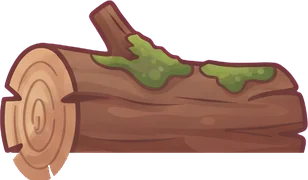
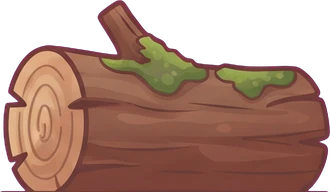
Versão 1.25: pinguim e caranguejo novos, enfeites sobre o relevo, tronco inteiro e botão de pausa
- pinguim ilustrado e caranguejo da arte nova, desenhados depois do relevo
- flores e tufos ilustrados em todas as fases, pousados nas ladeiras
- tronco recortado de novo sem cortar a ponta
- obstáculos mantêm o desenho novo quando o Infinito troca de fase
- porco-espinho anda sem quicar; ícone do pulo duplo no meio da caixa
- botão de pausa na partida

diff --git a/index.html b/index.html
@@ -387,6 +387,7 @@
     <div class="next" id="next"><canvas id="nextCv" width="88" height="68"></canvas><div class="bar"><i id="nextBar"></i></div></div>
   </div>
   <div class="btns">
+    <button class="rbtn" id="pauseBtn" aria-label="Pausar" style="display:none">⏸</button>
     <button class="rbtn" id="cfgBtn" aria-label="Configurações">⚙</button>
     <button class="rbtn" id="home" aria-label="Início" style="display:none">🏠</button>
     <button class="rbtn" id="openHelp" aria-label="Como jogar">📖</button>
@@ -503,7 +504,7 @@
     </div>
     <!--DEV-FIM-->
     <button class="big" id="cfgOk">Pronto</button>
-    <div class="ver" id="ver">versão 1.24</div>
+    <div class="ver" id="ver">versão 1.25</div>
     <div class="cred">Fonte Fredoka: Copyright 2016 The Fredoka Project Authors, licenciada sob a SIL Open Font License 1.1 (texto completo em fonts/OFL.txt).</div>
   </div>
 </div>
@@ -605,6 +606,7 @@ const I={
  engrenagem:`<path d="${gear}" fill="#8FA6BE"/><circle cx="12" cy="12" r="3" fill="#fff"/>`,
  casa:`<path d="M5.8 10.5v9.2h12.4v-9.2" fill="#8FC3EE"/><path d="M10 19.7v-5h4v5" fill="#F7B24A"/><path d="M3.3 11.6 12 4.2l8.7 7.4" fill="none" stroke-width="2.2"/><path d="M3.3 11.6 12 4.2l8.7 7.4" fill="none" stroke="#F26B5B" stroke-width=".9"/>`,
  play:`<path d="M8 5.2v13.6l10.8-6.8z" fill="#fff"/>`,
+ pausa:`<rect x="6.2" y="5" width="4.2" height="14" rx="1.6" fill="#8FA6BE"/><rect x="13.6" y="5" width="4.2" height="14" rx="1.6" fill="#8FA6BE"/>`,
  chegada:`<path d="M5.5 21V3.5" fill="none" stroke-width="2"/><path d="M5.5 4h13v9h-13z" fill="#fff"/><path d="M5.5 4h4.3v3H5.5zM14.1 4h4.4v3h-4.4zM9.8 7h4.3v3H9.8zM5.5 10h4.3v3H5.5zM14.1 10h4.4v3h-4.4z" fill="#333" stroke="none"/>`,
  bandeira:`<path d="M6 21V3.5" fill="none" stroke-width="2"/><path d="M6 4.2c4-2 7 2 12 0v8.3c-5 2-8-2-12 0z" fill="#F0445A"/>`,
  infinito:`<path d="M12 12c-2-2.6-3.6-4-5.5-4a4 4 0 0 0 0 8c1.9 0 3.5-1.4 5.5-4s3.6-4 5.5-4a4 4 0 0 1 0 8c-1.9 0-3.5-1.4-5.5-4z" fill="none" stroke-width="4.2"/><path d="M12 12c-2-2.6-3.6-4-5.5-4a4 4 0 0 0 0 8c1.9 0 3.5-1.4 5.5-4s3.6-4 5.5-4a4 4 0 0 1 0 8c-1.9 0-3.5-1.4-5.5-4z" fill="none" stroke="#fff" stroke-width="2"/>`,
@@ -662,7 +664,7 @@ const I={
  voz:`<circle cx="9" cy="8.5" r="4.2" fill="#F6C28B"/><path d="M2.8 20c.4-3.8 2.8-6 6.2-6s5.8 2.2 6.2 6z" fill="#6FC3F0"/><path d="M16.5 6.5a4 4 0 0 1 0 5.5M19 4.3a7.2 7.2 0 0 1 0 9.9" fill="none" stroke-width="1.7"/>`,
  brilho:`<path d="M10 3.5l1.6 4.7 4.7 1.6-4.7 1.6L10 16.1l-1.6-4.7-4.7-1.6 4.7-1.6zM17.5 13l.9 2.6 2.6.9-2.6.9-.9 2.6-.9-2.6-2.6-.9 2.6-.9z" fill="#FFD23F"/>`
 };
-const MAP={'🍓':'morango','⭐':'estrela','🌟':'estrela','❤':'coracao','💗':'coracao','💖':'coracao','💔':'partido','⚙':'engrenagem','🏠':'casa','▶':'play','🏁':'chegada','🚩':'bandeira','♾':'infinito',
+const MAP={'⏸':'pausa','🍓':'morango','⭐':'estrela','🌟':'estrela','❤':'coracao','💗':'coracao','💖':'coracao','💔':'partido','⚙':'engrenagem','🏠':'casa','▶':'play','🏁':'chegada','🚩':'bandeira','♾':'infinito',
  '🐾':'pata','⚡':'raio','📖':'livro','🙂':'feliz','💪':'forte','🔥':'fogo','🔒':'cadeado','🔓':'aberto','🏆':'trofeu','🎁':'presente','🧲':'ima','🛡':'escudo','🎉':'festa',
  '🏅':'medalha','🥇':'medalha','👑':'coroa','🎀':'laco','👤':'pessoa','🔊':'som','🎵':'musica','📲':'celular','📱':'celular','⤵':'rolar','🌳':'arvore','🏖':'praia','❄':'neve',
  '🦒':'savana','🔮':'mistica','🍭':'doces','🔁':'repetir','⏰':'relogio','🎒':'mochila','➕':'mais','✨':'brilho','💫':'brilho','📒':'album','🎈':'balao','🏡':'casa','🗣':'voz','⏫':'cima','⏬':'baixo','⬆':'seta','👆':'dedo','👉':'dedo_lado','🗑':'lixo','🛠':'ferramenta','🥈':'prata','🥉':'bronze','🐦':'passaro','💨':'vento','📏':'regua','🍀':'trevo','🌧':'nuvem_chuva','⚠':'aviso','🚪':'porta','💻':'computador','🚧':'obra'};
@@ -1897,62 +1899,63 @@ function drawGround(){
   sp=30;i0=Math.floor(cam/sp)-1;i1=Math.ceil((cam+VW)/sp)+1;
   ctx.beginPath(); for(let i=i0;i<=i1;i++){const x=i*sp-cam; ctx.moveTo(x+31,GY+15); ctx.arc(x+15,GY+15,16,0,PI);} ctx.fill();
   ctx.fillStyle=C(TH.grassL); ctx.fillRect(0,GY-6,VW,6);
-  if(st==='selva'||st==='savana'||st==='mistica'){
+  if((st==='selva'&&!useFL())||st==='savana'||st==='mistica'){ // na Floresta ilustrada os tufos desenhados substituem estes
     sp=43;i0=Math.floor(cam/sp)-1;i1=Math.ceil((cam+VW)/sp)+1;
     ctx.fillStyle=C(TH.tuft); ctx.beginPath();
     for(let i=i0;i<=i1;i++){const x=i*sp+rnd(i,91)*24-cam,h=8+rnd(i,92)*10;
       ctx.moveTo(x-7,GY-5);ctx.lineTo(x-4,GY-5-h*.8);ctx.lineTo(x-1,GY-5);ctx.lineTo(x+1,GY-5-h);ctx.lineTo(x+4,GY-5);ctx.lineTo(x+7,GY-5-h*.7);ctx.lineTo(x+9,GY-5);}
     ctx.fill();
   }
-  if(st!=='selva'&&artPronto(st)&&ART[st].chao.length){const ks=ART[st].chao;
-    sp=140;i0=Math.floor(cam/sp)-1;i1=Math.ceil((cam+VW)/sp)+1;
-    for(let i=i0;i<=i1;i++){if(rnd(i,101)<.45)continue;const k=ks[Math.floor(rnd(i,102)*ks.length)],x=i*sp+rnd(i,103)*60-cam;
-      flDraw(st+'/'+k,x,GY+3,(k==='tufo_seco'?18:k==='baldinho'?22:15)+rnd(i,104)*5,rnd(i,105)>.5);}}
-  if(st==='selva'&&useFL()){ // tufos e florzinhas ilustrados
-    const ks=['tufo_1','tufo_2','tufo_3','tufo_4','tufo_5','tufo_6','flor_amarela','flor_rosa','flor_branca','flor_lilas'];
-    sp=88;i0=Math.floor(cam/sp)-1;i1=Math.ceil((cam+VW)/sp)+1;
-    for(let i=i0;i<=i1;i++){if(rnd(i,101)<.3)continue;const k=ks[Math.floor(rnd(i,102)*ks.length)],x=i*sp+rnd(i,103)*50-cam;
-      flDraw(k,x,GY+2,k[0]==='f'?22+rnd(i,104)*6:15+rnd(i,104)*8,rnd(i,105)>.5);}
-  }
   if(st==='doces'){ // granulado
     sp=22;i0=Math.floor(cam/sp)-1;i1=Math.ceil((cam+VW)/sp)+1;
     for(let i=i0;i<=i1;i++){const x=i*sp+rnd(i,95)*14-cam;ctx.save();ctx.translate(x,GY+2+rnd(i,96)*14);ctx.rotate(rnd(i,97)*PI);
       ctx.fillStyle=C(CANDY[Math.floor(rnd(i,98)*5)]);ctx.fillRect(-4,-1.5,8,3);ctx.restore();}
   }
-  sp=118;i0=Math.floor(cam/sp)-1;i1=Math.ceil((cam+VW)/sp)+1;
-  const FC=[[255,255,255],[255,170,205],[255,226,90],[190,160,255]];
-  for(let i=i0;i<=i1;i++){ if(rnd(i,101)<.35||st==='neve') continue;
-    const x=i*sp+rnd(i,102)*70-cam,h=12+rnd(i,103)*8,c=FC[Math.floor(rnd(i,104)*4)],y=GY-5-h;
-    if(st==='praia'){ // estrela-do-mar ou concha
-      if(rnd(i,105)>.5){ctx.fillStyle=tc(255,140,90);ctx.save();ctx.translate(x,GY+6);ctx.rotate(i);ctx.beginPath();
-        for(let k=0;k<10;k++){const a=k*PI/5,r=k%2?4:10;ctx.lineTo(Math.cos(a)*r,Math.sin(a)*r);}ctx.fill();ctx.restore();}
-      else{ctx.fillStyle=tc(255,200,215);ctx.beginPath();ctx.arc(x,GY+8,8,PI,TAU);ctx.fill();ctx.strokeStyle=tc(235,150,175);ctx.lineWidth=1.5;
-        ctx.beginPath();for(let k=-2;k<=2;k++){ctx.moveTo(x,GY+8);ctx.lineTo(x+k*3.4,GY+1+Math.abs(k));}ctx.stroke();}
-      continue;}
-    ctx.strokeStyle=st==='doces'?tc(255,255,255):tc(60,150,70);ctx.lineWidth=2.5;ctx.beginPath();ctx.moveTo(x,GY-4);ctx.lineTo(x,y);ctx.stroke();
-    ctx.fillStyle=C(c);ctx.beginPath();for(let k=0;k<5;k++){const a=k*TAU/5+i;ctx.moveTo(x+Math.cos(a)*4+4,y+Math.sin(a)*4);ctx.arc(x+Math.cos(a)*4,y+Math.sin(a)*4,4,0,TAU);}ctx.fill();
-    ctx.fillStyle=tc(255,190,40);ctx.beginPath();ctx.arc(x,y,2.8,0,TAU);ctx.fill();}
 }
-function drawBeachFriends(){
+// enfeites do chão (florzinhas, tufos, conchas): depois do relevo, pousados nele, para não ficarem cortados nas ladeiras
+const FLORES={selva:['flor_amarela','flor_rosa','flor_branca','flor_lilas'],savana:['flor_amarela','flor_branca','flor_amarela'],mistica:['flor_lilas','flor_rosa','flor_lilas'],doces:['flor_rosa','flor_lilas','flor_amarela']};
+function drawGroundDecor(){
+  const st=TH.style; let sp,i0,i1;
+  const g=sx=>gAt(sx+cam);
+  if(st!=='selva'&&artPronto(st)&&ART[st].chao.length){const ks=ART[st].chao;
+    sp=140;i0=Math.floor(cam/sp)-1;i1=Math.ceil((cam+VW)/sp)+1;
+    for(let i=i0;i<=i1;i++){if(rnd(i,101)<.45)continue;const k=ks[Math.floor(rnd(i,102)*ks.length)],x=i*sp+rnd(i,103)*60-cam;
+      flDraw(st+'/'+k,x,GY+3-g(x),(k==='tufo_seco'?18:k==='baldinho'?22:15)+rnd(i,104)*5,rnd(i,105)>.5);}}
+  if(st==='selva'&&useFL()){ // tufos e florzinhas ilustrados, em moitinhas (tufo + flores juntos)
+    const ks=['tufo_1','tufo_2','tufo_3','tufo_4','tufo_5','tufo_6'],fs=FLORES.selva;
+    sp=64;i0=Math.floor(cam/sp)-1;i1=Math.ceil((cam+VW)/sp)+1;
+    for(let i=i0;i<=i1;i++){if(rnd(i,101)<.22)continue;const x=i*sp+rnd(i,103)*36-cam,q=rnd(i,106);
+      if(q<.45){flDraw(ks[Math.floor(rnd(i,102)*ks.length)],x,GY+2-g(x),15+rnd(i,104)*9,rnd(i,105)>.5);}
+      else if(q<.75){flDraw(ks[Math.floor(rnd(i,102)*ks.length)],x,GY+2-g(x),14+rnd(i,104)*6,rnd(i,105)>.5);
+        const f=fs[Math.floor(rnd(i,107)*fs.length)],x2=x+8+rnd(i,108)*6;flDraw(f,x2,GY+3-g(x2),20+rnd(i,109)*6,rnd(i,110)>.5);}
+      else{for(let k=0;k<2+(q>.9);k++){const f=fs[Math.floor(rnd(i,111+k)*fs.length)],x2=x+k*11-6;flDraw(f,x2,GY+3-g(x2),18+rnd(i,114+k)*8,rnd(i,117+k)>.5);}}}
+    return;}
+  if(st==='neve'||st==='selva') return;
+  if(st==='praia'){if(artPronto('praia'))return; // a praia ilustrada já tem conchas e estrelas-do-mar
+    sp=118;i0=Math.floor(cam/sp)-1;i1=Math.ceil((cam+VW)/sp)+1;
+    for(let i=i0;i<=i1;i++){if(rnd(i,101)<.35)continue;const x=i*sp+rnd(i,102)*70-cam,y=GY-g(x);
+      ctx.fillStyle=tc(255,140,90);ctx.save();ctx.translate(x,y+6);ctx.rotate(i);ctx.beginPath();
+      for(let k=0;k<10;k++){const a=k*PI/5,r=k%2?4:10;ctx.lineTo(Math.cos(a)*r,Math.sin(a)*r);}ctx.fill();ctx.restore();}
+    return;}
+  // florzinhas ilustradas nas outras fases (com a cor da fase)
+  if(!FL.ok) return;
+  const fs=FLORES[st]||FLORES.selva;
+  sp=st==='savana'?150:118;i0=Math.floor(cam/sp)-1;i1=Math.ceil((cam+VW)/sp)+1;
+  for(let i=i0;i<=i1;i++){if(rnd(i,101)<(st==='savana'?.5:.35))continue;const x=i*sp+rnd(i,102)*70-cam;
+    const n=1+(rnd(i,103)>.6);for(let k=0;k<n;k++){const x2=x+k*12,f=fs[Math.floor(rnd(i,104+k)*fs.length)];flDraw(f,x2,GY+3-g(x2),18+rnd(i,106+k)*7,rnd(i,108+k)>.5,st==='mistica'?.15:0);}}
+}
+function drawBeachFriends(){ // caranguejos na praia e pinguins na neve, passeando na faixa da frente (desenhados depois do relevo)
   const st=TH.style; if(st!=='praia'&&st!=='neve') return;
+  const im=st==='praia'?FL.im['praia/caranguejo']:VIVO.im.pinguim; if(!im||!im.complete||!im.width) return;
   const sp=560,i0=Math.floor(cam/sp)-1,i1=Math.ceil((cam+VW)/sp)+1;
   for(let i=i0;i<=i1;i++){ if(rnd(i,251)<.35) continue;
-    const x=i*sp+rnd(i,252)*260-cam+Math.sin(T*1.3+i)*22, y=GY+20+rnd(i,253)*14;
-    if(st==='praia'){ctx.save();ctx.translate(x,y);const w2=Math.sin(T*8+i)*2;
-      ctx.strokeStyle='#D9363E';ctx.lineWidth=2;ctx.lineCap='round';ctx.beginPath();
-      for(const sgn of [-1,1]) for(let k=0;k<3;k++){ctx.moveTo(sgn*8,2+k*2);ctx.lineTo(sgn*15,6+k*3+(k%2?w2:-w2));}ctx.stroke();
-      ctx.fillStyle='#F2484F';ctx.beginPath();ctx.ellipse(0,0,12,8,0,0,TAU);ctx.fill();
-      ctx.beginPath();ctx.arc(-15,-8+w2,5,0,TAU);ctx.arc(15,-8-w2,5,0,TAU);ctx.fill();
-      ctx.strokeStyle='#F2484F';ctx.lineWidth=2.5;ctx.beginPath();ctx.moveTo(-4,-6);ctx.lineTo(-5,-13);ctx.moveTo(4,-6);ctx.lineTo(5,-13);ctx.stroke();
-      ctx.fillStyle='#fff';ctx.beginPath();ctx.arc(-5,-14,3,0,TAU);ctx.arc(5,-14,3,0,TAU);ctx.fill();
-      ctx.fillStyle='#222';ctx.beginPath();ctx.arc(-4.5,-14,1.4,0,TAU);ctx.arc(5.5,-14,1.4,0,TAU);ctx.fill();
-      ctx.strokeStyle='#8E1C22';ctx.lineWidth=1.4;ctx.beginPath();ctx.arc(0,0,3,.3,PI-.3);ctx.stroke();ctx.restore();}
-    else{ctx.save();ctx.translate(x,y-6);ctx.rotate(Math.sin(T*6+i)*.12);
-      ctx.fillStyle='#2E3445';ctx.beginPath();ctx.ellipse(0,0,10,15,0,0,TAU);ctx.fill();ctx.beginPath();ctx.arc(0,-15,8,0,TAU);ctx.fill();
-      ctx.fillStyle='#fff';ctx.beginPath();ctx.ellipse(1,2,6.5,11,0,0,TAU);ctx.fill();ctx.beginPath();ctx.ellipse(2,-14,5,5.5,0,0,TAU);ctx.fill();
-      ctx.fillStyle='#222';ctx.beginPath();ctx.arc(3.5,-16,1.4,0,TAU);ctx.fill();
-      ctx.fillStyle='#FFA726';ctx.beginPath();ctx.moveTo(6,-14);ctx.lineTo(11,-12.5);ctx.lineTo(6,-11.5);ctx.fill();ctx.beginPath();ctx.ellipse(-4,15,4,2,0,0,TAU);ctx.ellipse(5,15,4,2,0,0,TAU);ctx.fill();
-      ctx.restore();}
+    const x=i*sp+rnd(i,252)*260-cam+Math.sin(T*1.3+i)*22, y=GY+24+rnd(i,253)*12, vai=Math.cos(T*1.3+i); // vai>0: andando para a direita
+    if(x<-60||x>VW+60) continue;
+    ctx.fillStyle='rgba(0,0,0,.13)';ctx.beginPath();ctx.ellipse(x,y+1,st==='praia'?15:12,3.5,0,0,TAU);ctx.fill();
+    ctx.save();ctx.translate(x,y);
+    if(st==='praia'){const h=24,w=h*im.width/im.height,p=T*14+i;ctx.rotate(Math.sin(p)*.06);ctx.drawImage(im,-w/2,-h-Math.abs(Math.sin(p))*1.5,w,h);} // anda de lado, balançando
+    else{const h=36,w=h*im.width/im.height,p=T*7+i;ctx.rotate(Math.sin(p)*.13);ctx.scale(vai>=0?1:-1,1);ctx.drawImage(im,-w/2,-h-Math.abs(Math.sin(p))*1.2,w,h);} // gingado de pinguim
+    ctx.restore();
   }
 }
 function drawRollBall(c,x,y,sc,sk,ang){
@@ -2064,7 +2067,7 @@ function drawObstacle(o){
   if(MOVEIS.includes(o.k)){if(vivoOk())drawMovel(o,x,y);return;}
   ctx.fillStyle='rgba(0,0,0,.16)';ctx.beginPath();ctx.ellipse(x,y+3,w*.62,7,0,0,TAU);ctx.fill();
   {const ak=artObs(o.k);if(ak){flDraw(ak,x,y+4,h*(OBS_ESC[o.k]||1.15));
-    if(o.k==='torre'){ctx.drawImage(icoImg('cima'),x-13,y-h*.55-13,26,26);}
+    if(o.k==='torre'){const H=h*(OBS_ESC.torre||1.15);ctx.drawImage(icoImg('cima'),x-H*.0236-13,y+4-H*.397-13,26,26);} // no meio da frente da 2ª caixa (a arte tem a lateral à direita)
     return;}}
   if(o.k==='tronco'){
     ctx.fillStyle='#8B5A2B'; rr(ctx,x-w/2,y-h,w,h,h/2); ctx.fill();
@@ -2362,7 +2365,7 @@ function leoQuadro(p){if(p.still)return 0;if(p.stumble>0)return 12;if(p.air)retu
 
 /* ---------- peças ilustradas da Floresta (arte nova) ---------- */
 const FL={ok:false,im:{},tint:new Map(),last:new Map(),bud:3,nomes:['arvore_redonda', 'arvore_pinheiro', 'arvore_cipos', 'arbusto_pequeno', 'arbusto_flores', 'arbusto_frutinhas', 'arbusto_grande', 'planta_costela', 'planta_pequena', 'planta_rosa', 'tufo_1', 'tufo_2', 'tufo_3', 'tufo_4', 'tufo_5', 'tufo_6', 'flor_amarela', 'flor_rosa', 'flor_branca', 'flor_lilas', 'taboa_1', 'taboa_2', 'galho_pendurado','galho_tronco','cipo','macaco_1','macaco_2','folhas_frente_1', 'folhas_frente_2', 'folhas_frente_3', 'tronco', 'pedra', 'toco', 'cogumelo']};
-(function(){let n=0;FL.nomes.forEach(k=>{const im=new Image();im.onload=()=>{if(++n===FL.nomes.length)FL.ok=true;};im.src='img/floresta/'+k+'.webp?v=1';FL.im[k]=im;});})();
+(function(){let n=0;FL.nomes.forEach(k=>{const im=new Image();im.onload=()=>{if(++n===FL.nomes.length)FL.ok=true;};im.src='img/floresta/'+k+'.webp?v='+(k==='tronco'?2:1);FL.im[k]=im;});})();
 const useFL=()=>FL.ok&&TH.style==='selva';
 ['buraco','poca','poca2'].forEach(k=>{const im=new Image();im.src='img/extras/'+k+'.webp?v=1';FL.im['chao/'+k]=im;});
 // peças ilustradas das outras fases: carregadas só quando a fase aparece
@@ -2380,10 +2383,13 @@ function artPronto(st){const a=ART[st];if(!a)return false;if(a.ok)return true;
   return false;}
 artPronto('extras');try{artPronto(TH.style);}catch(e){}
 const OBS_ESC={castelo:1.25,cupinzeiro:1.15,boneco:1.15,cristal:1.25,cupcake:1.25,caixa:1.04,pilha:1.0,barril:1.05,cerca:1.15,torre:1.05,pedra:1.22,toco:1.22,tronco:1.3,cogumelo:1.3};
-function artObs(k){const st=TH.style,a=ART[st];
-  if(a&&a.obs[k]&&artPronto(st)) return st+'/'+a.obs[k];
+// obstáculos de todas as fases carregados desde o início: no Infinito, quando a fase muda, os que ficaram na tela mantêm o desenho
+const OBS_IM={};for(const st in ART)for(const k in ART[st].obs){const f=st+'/'+ART[st].obs[k],im=new Image();im.src='img/'+f+'.webp?v=1';OBS_IM[f]=im;}
+function artObs(k){const st=TH.style,a=ART[st],ok=f=>{const im=FL.im[f]||OBS_IM[f];if(im&&im.complete&&im.width){FL.im[f]=im;return true;}return false;};
+  if(a&&a.obs[k]&&(artPronto(st)||ok(st+'/'+a.obs[k]))) return st+'/'+a.obs[k];
   if(ART.extras.obs[k]&&ART.extras.ok) return 'extras/'+k;
   if(FL.ok&&(k==='tronco'||k==='pedra'||k==='toco'||k==='cogumelo')) return k;
+  for(const s in ART){const f=ART[s].obs[k]&&s+'/'+ART[s].obs[k];if(f&&ok(f))return f;}
   return null;}
 // frutas ilustradas (todas as fases)
 const FRU={ok:false,im:{},nomes:['morango','banana','cereja','laranja','melancia','uva','ouro','abacaxi']};
@@ -2635,7 +2641,7 @@ function drawFinish(){
 }
 /* ---------- surpresas, bichos que reagem, obstáculos que se mexem, voz e figurinhas ---------- */
 const VIVO={ok:0,im:{}};
-['mola','bau','bau_aberto','passaro','passaro_voa','sapo','abelha','ourico','pedra_bola'].forEach((k,_,a)=>{const im=new Image();im.onload=()=>{if(++VIVO.ok===a.length)VIVO.ok=true;};im.src='img/vivo/'+k+'.webp?v=1';VIVO.im[k]=im;});
+['mola','bau','bau_aberto','passaro','passaro_voa','sapo','abelha','ourico','pedra_bola','pinguim'].forEach((k,_,a)=>{const im=new Image();im.onload=()=>{if(++VIVO.ok===a.length)VIVO.ok=true;};im.src='img/vivo/'+k+'.webp?v=1';VIVO.im[k]=im;});
 {const im=new Image();im.src='img/casinha/nuvem.webp?v=1';VIVO.im.nuvem=im;}
 const vivoOk=()=>VIVO.ok===true;
 // passarinho voando: 4 quadros batendo as asas (asas em cima, no meio, embaixo, no meio); se não carregaram, usa a imagem única
@@ -2735,7 +2741,7 @@ function vivoUpdate(dt,lx){
       const q=obstacles.find(q=>q!==o&&!q.flat&&!q.broken&&q.k!=='galho'&&!MOVEIS.includes(q.k)&&q.x<o.x&&o.x-q.x<(q.w+o.w)/2+(o.k==='rolante'?34:6));
       if(o.k==='rolante'&&q&&!o.hy&&!(o.hv>0))o.hv=560;
       if(o.hy>0||o.hv>0){o.hv-=1500*dt;o.hy=Math.max(0,(o.hy||0)+o.hv*dt);if(o.hy===0)o.hv=0;}
-      if(o.k==='ourico'&&o.x-lx<VW&&!q){o.x-=55*dt;o.ph=(o.ph||0)+dt*8;}
+      if(o.k==='ourico'&&o.x-lx<VW&&!q){o.x-=55*dt;o.ph=(o.ph||0)+dt*11;}
       else if(o.k==='rolante'&&o.x-lx<VW+60){o.x-=140*dt;o.rot=(o.rot||0)-140*dt/24;}}
     else if(o.k==='sapo'){o.t=(o.t===undefined?Math.random()*1.6:o.t)+dt;const c=o.t%1.7;o.y=c>1.05?Math.sin((c-1.05)/.65*PI)*100:0;
       if(c>1.05&&c-dt<=1.05&&o.x-lx<VW) sfx.sapo();}
@@ -2823,7 +2829,7 @@ function drawMovel(o,x,y){
   ctx.fillStyle='rgba(0,0,0,.16)';ctx.beginPath();ctx.ellipse(x,y+3,24*(o.k==='abelha'?.6:1),5,0,0,TAU);ctx.fill();
   if(o.k==='sapo')vDraw('sapo',x,y+3-(o.y||0),o.h*1.25,true,0,(o.y||0)>2?1.06:1-(.06*Math.abs(Math.sin(T*3))));
   else if(o.k==='abelha')vDraw('abelha',x,y-o.y+19,36,true,Math.sin(T*9)*.08);
-  else if(o.k==='ourico')vDraw('ourico',x,y+3-Math.abs(Math.sin(o.ph||0))*2,o.h*1.2,false);
+  else if(o.k==='ourico'){const p=o.ph||0;vDraw('ourico',x,y+4,o.h*1.2,false,Math.sin(p)*.05,1-.035*Math.abs(Math.cos(p)));} // anda: balança de um pé para o outro, sem sair do chão
 }
 
 /* --- sons do ambiente --- */
@@ -3681,7 +3687,7 @@ function draw(){FL.bud=2;macVis.length=0;
   ctx.setTransform(S*DPR,0,0,S*DPR,0,0);
   setEnv((envT%110)/110);
   if(state==='play'&&mode==='casa'){casaDraw();return;}
-  drawSky();drawHills();drawFarTrees();drawBirds();drawTrees();drawRunners();drawBushes();drawGround();drawBeachFriends();drawMounds();drawCritters();
+  drawSky();drawHills();drawFarTrees();drawBirds();drawTrees();drawRunners();drawBushes();drawGround();drawMounds();drawGroundDecor();drawBeachFriends();drawCritters();
 
   const playing=state!=='menu';
   if(playing){
@@ -3833,7 +3839,7 @@ function setState(s){if(s!=='play'){varalMenuFecha();if(pausado){pausado=false;$
   state=s;
   for(const id of ['menu','shop','unlock','result','config']) show(id,s===id);
   show('pinBox',false);show('portao',false);if(s==='menu')requestAnimationFrame(fitMenu);
-  $('home').style.display=s==='play'?'grid':'none';$('openHelp').style.display=s==='menu'?'grid':'none';
+  $('home').style.display=s==='play'?'grid':'none';$('pauseBtn').style.display=s==='play'&&mode!=='casa'?'grid':'none';$('openHelp').style.display=s==='menu'?'grid':'none';
   $('rollBtn').classList.toggle('on',s==='play'&&!semPulo());show('casaBar',s==='play'&&mode==='casa'&&casa.sala!=='arte');
   if(typeof paintSlots==='function') paintSlots();
 }
@@ -4029,6 +4035,7 @@ function syncCfg(){
   $('vfxN').textContent=$('vfx').value;$('vmusN').textContent=$('vmus').value;paintSlider($('vfx'));paintSlider($('vmus'));
   $('difF').classList.toggle('on',save.dif==='facil');$('difN').classList.toggle('on',save.dif==='normal');$('difD').classList.toggle('on',save.dif==='dificil');
 }
+$('pauseBtn').addEventListener('click',e=>{e.stopPropagation();audioInit();sfx.tap();pausaLiga();});
 $('cfgBtn').addEventListener('click',()=>{audioInit();sfx.tap();if(state!=='play'&&state!=='menu')return;cfgBack=state;syncCfg();setState('config');});
 $('vfx').addEventListener('input',e=>{save.vfx=e.target.value/100;$('vfxN').textContent=e.target.value;paintSlider(e.target);dirty=true;
   const n=performance.now();if(n-vfxT>140){vfxT=n;audioInit();sfx.get(ri(5));}});

diff --git a/sw.js b/sw.js
@@ -1,4 +1,4 @@
-const CACHE='leopardinho-v24';
+const CACHE='leopardinho-v25';
 const FILES=['./','./index.html','./manifest.webmanifest','./icon-192.png','./icon-512.png','./icon-maskable-512.png','./apple-touch-icon.png'];
 self.addEventListener('install',e=>{e.waitUntil(caches.open(CACHE).then(c=>c.addAll(FILES)).then(()=>self.skipWaiting()));});
 self.addEventListener('activate',e=>{e.waitUntil(caches.keys().then(ks=>Promise.all(ks.filter(k=>k!==CACHE).map(k=>caches.delete(k)))).then(()=>self.clients.claim()));});
